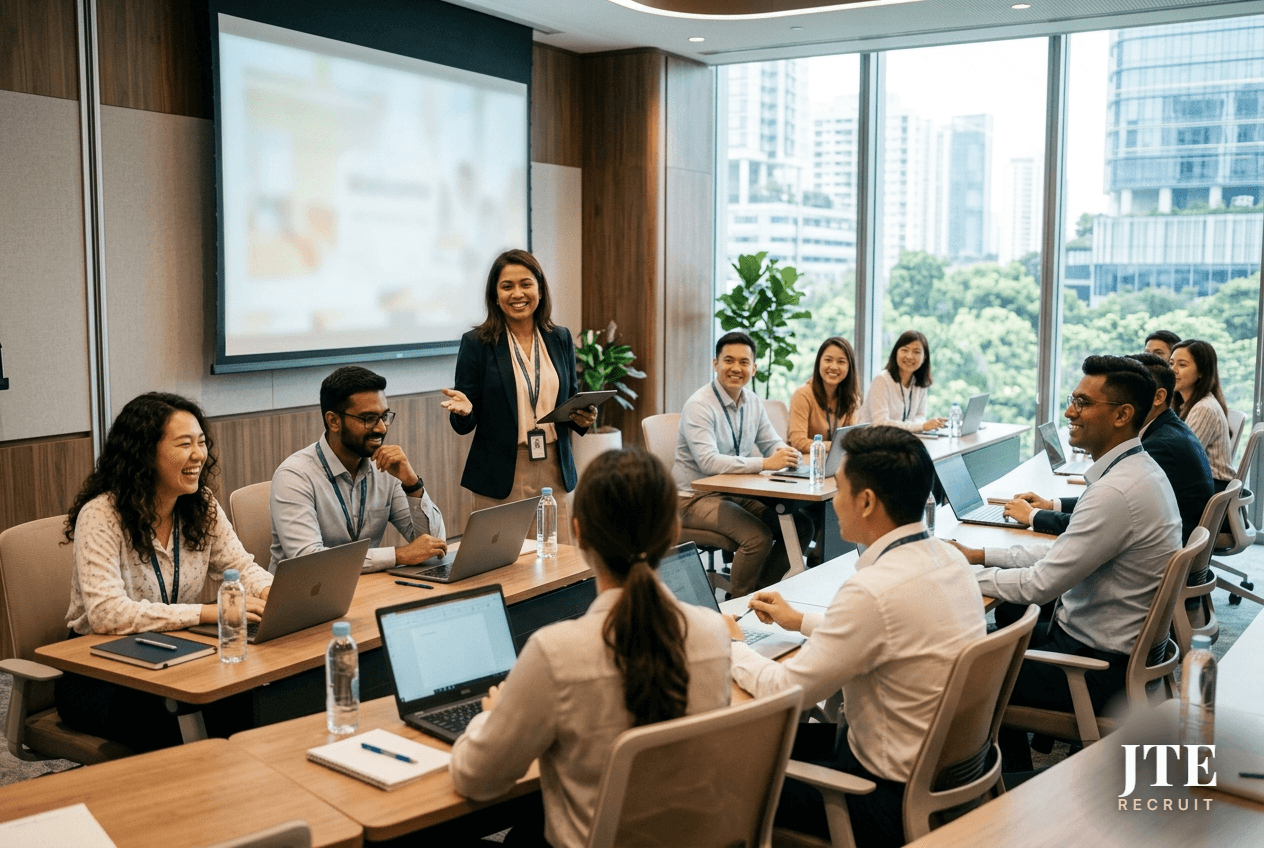
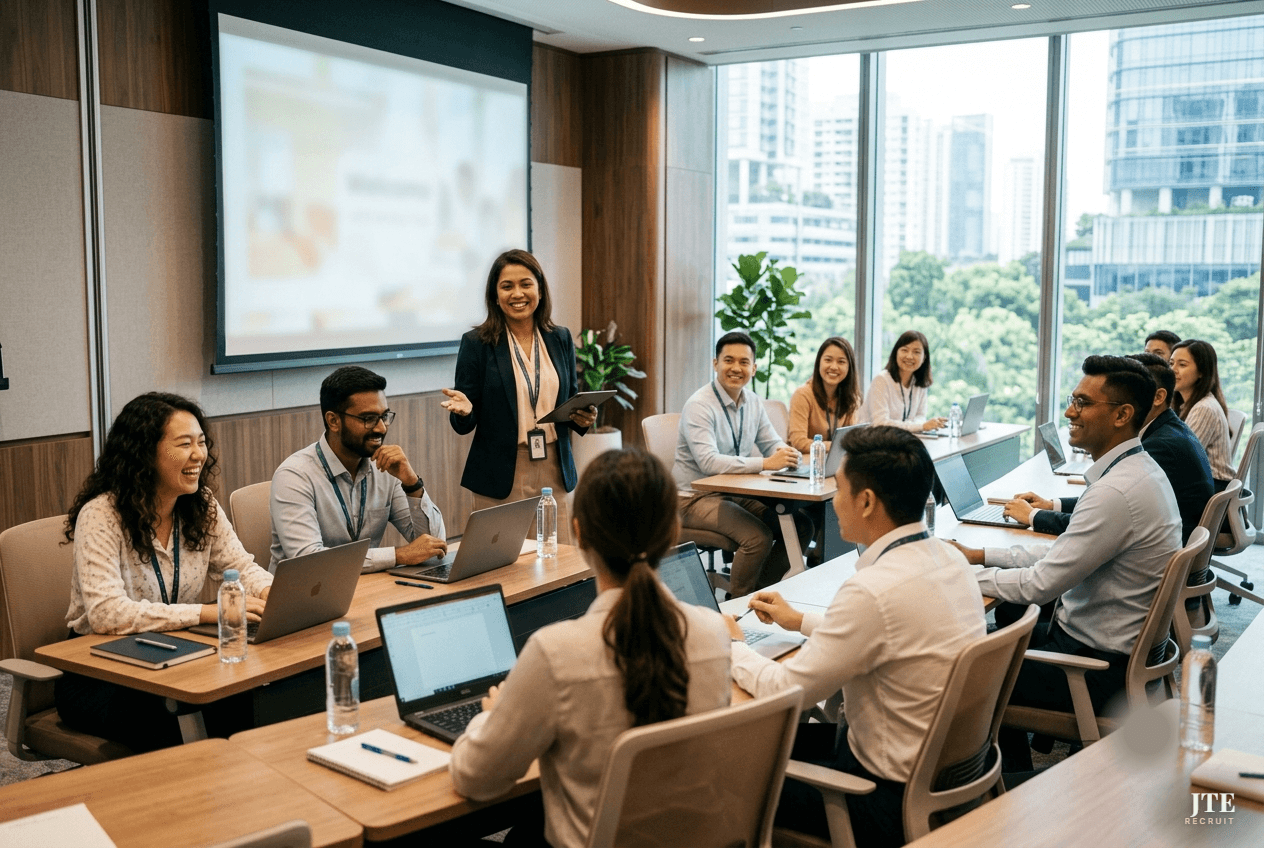
Fixes: site-wide "For Employers" nav, smaller watermark, homepage hero
- "For Employers" added to the desktop nav on all 27 pages (was only
  on the homepage, so it vanished elsewhere); variant-aware colour.
- Shrank the JTE watermark on all 7 employer images (hero + 6 cards)
  — the bumped version was too large.
- Homepage hero: removed its AI sparkle + added the small JTE
  watermark; served from /assets/home-hero.png (was Supabase).

Claude-Session: https://claude.ai/code/session_01EKRgNvSH6V1dx8oDAvnnUX

Changed region(s): [[0.8331, 0.8278, 1.0, 1.0], [0.4628, 0.3986, 0.4937, 0.4599], [0.5862, 0.3373, 0.6171, 0.3679]]

diff --git a/employers/index.html b/employers/index.html
@@ -312,6 +312,7 @@
         <!-- Right cluster: desktop links (hidden on mobile) + always-visible Verify button -->
         <div class="flex items-center gap-4 md:gap-8">
             <div class="nav-desk items-center space-x-7">
+                <a href="/employers" class="text-xs uppercase tracking-[0.15em] text-gray-300 hover:text-white transition-colors hover-gold-line">For Employers</a>
                 <a href="/services" class="text-xs uppercase tracking-[0.15em] text-gray-300 hover:text-white transition-colors hover-gold-line">What We Do</a>
                 <a href="/our-story" class="text-xs uppercase tracking-[0.15em] text-gray-300 hover:text-white transition-colors hover-gold-line">Our Story</a>
                 <a href="/blog" class="text-xs uppercase tracking-[0.15em] text-gray-300 hover:text-white transition-colors hover-gold-line">Field Notes</a>

diff --git a/index.html b/index.html
@@ -668,7 +668,7 @@
     <section class="relative h-screen min-h-[700px] flex flex-col items-center justify-center overflow-hidden">
         <div class="absolute inset-0 z-0">
             <div class="absolute inset-0 bg-gradient-to-b from-black/60 via-black/40 to-black/70 z-10"></div> 
-            <img loading="eager" src="https://cqkzlykkshlzemiiloeo.supabase.co/storage/v1/render/image/public/jte-images/hero/hero-image.png?width=1600&quality=75&resize=contain" class="hero-image w-full h-full object-cover" alt="JTE Recruit Team Singapore">
+            <img loading="eager" src="/assets/home-hero.png" class="hero-image w-full h-full object-cover" alt="JTE Recruit Team Singapore">
         </div>
         
         <div class="absolute top-1/4 left-10 w-32 h-32 border border-luxury-gold/20 rounded-full animate-float opacity-30 hidden md:block"></div>

diff --git a/blog/employment-pass-s-pass-work-permit-guide/index.html b/blog/employment-pass-s-pass-work-permit-guide/index.html
@@ -91,6 +91,7 @@
         </a>
         <div class="flex items-center gap-4 md:gap-8">
             <div class="nav-desk items-center space-x-7">
+                <a href="/employers" class="text-xs uppercase tracking-[0.15em] text-gray-600 hover:text-luxury-black transition-colors hover-gold-line">For Employers</a>
                 <a href="/services" class="text-xs uppercase tracking-[0.15em] text-gray-600 hover:text-luxury-black transition-colors hover-gold-line">What We Do</a>
                 <a href="/our-story" class="text-xs uppercase tracking-[0.15em] text-gray-600 hover:text-luxury-black transition-colors hover-gold-line">Our Story</a>
                 <a href="/blog" class="text-xs uppercase tracking-[0.15em] text-gray-600 hover:text-luxury-black transition-colors hover-gold-line nav-active">Field Notes</a>

diff --git a/blog/how-to-choose-recruitment-agency-singapore/index.html b/blog/how-to-choose-recruitment-agency-singapore/index.html
@@ -91,6 +91,7 @@
         </a>
         <div class="flex items-center gap-4 md:gap-8">
             <div class="nav-desk items-center space-x-7">
+                <a href="/employers" class="text-xs uppercase tracking-[0.15em] text-gray-600 hover:text-luxury-black transition-colors hover-gold-line">For Employers</a>
                 <a href="/services" class="text-xs uppercase tracking-[0.15em] text-gray-600 hover:text-luxury-black transition-colors hover-gold-line">What We Do</a>
                 <a href="/our-story" class="text-xs uppercase tracking-[0.15em] text-gray-600 hover:text-luxury-black transition-colors hover-gold-line">Our Story</a>
                 <a href="/blog" class="text-xs uppercase tracking-[0.15em] text-gray-600 hover:text-luxury-black transition-colors hover-gold-line nav-active">Field Notes</a>

diff --git a/blog/permanent-vs-contract-staffing/index.html b/blog/permanent-vs-contract-staffing/index.html
@@ -91,6 +91,7 @@
         </a>
         <div class="flex items-center gap-4 md:gap-8">
             <div class="nav-desk items-center space-x-7">
+                <a href="/employers" class="text-xs uppercase tracking-[0.15em] text-gray-600 hover:text-luxury-black transition-colors hover-gold-line">For Employers</a>
                 <a href="/services" class="text-xs uppercase tracking-[0.15em] text-gray-600 hover:text-luxury-black transition-colors hover-gold-line">What We Do</a>
                 <a href="/our-story" class="text-xs uppercase tracking-[0.15em] text-gray-600 hover:text-luxury-black transition-colors hover-gold-line">Our Story</a>
                 <a href="/blog" class="text-xs uppercase tracking-[0.15em] text-gray-600 hover:text-luxury-black transition-colors hover-gold-line nav-active">Field Notes</a>

diff --git a/blog/recruitment-agency-cost-singapore/index.html b/blog/recruitment-agency-cost-singapore/index.html
@@ -91,6 +91,7 @@
         </a>
         <div class="flex items-center gap-4 md:gap-8">
             <div class="nav-desk items-center space-x-7">
+                <a href="/employers" class="text-xs uppercase tracking-[0.15em] text-gray-600 hover:text-luxury-black transition-colors hover-gold-line">For Employers</a>
                 <a href="/services" class="text-xs uppercase tracking-[0.15em] text-gray-600 hover:text-luxury-black transition-colors hover-gold-line">What We Do</a>
                 <a href="/our-story" class="text-xs uppercase tracking-[0.15em] text-gray-600 hover:text-luxury-black transition-colors hover-gold-line">Our Story</a>
                 <a href="/blog" class="text-xs uppercase tracking-[0.15em] text-gray-600 hover:text-luxury-black transition-colors hover-gold-line nav-active">Field Notes</a>

diff --git a/blog/looking-past-the-cv/index.html b/blog/looking-past-the-cv/index.html
@@ -107,6 +107,7 @@
         </a>
         <div class="flex items-center gap-4 md:gap-8">
             <div class="nav-desk items-center space-x-7">
+                <a href="/employers" class="text-xs uppercase tracking-[0.15em] text-gray-600 hover:text-luxury-black transition-colors hover-gold-line">For Employers</a>
                 <a href="/services" class="text-xs uppercase tracking-[0.15em] text-gray-600 hover:text-luxury-black transition-colors hover-gold-line">What We Do</a>
           <a href="/our-story" class="text-xs uppercase tracking-[0.15em] text-gray-600 hover:text-luxury-black transition-colors hover-gold-line">Our Story</a>
                 <a href="/blog" class="text-xs uppercase tracking-[0.15em] text-gray-600 hover:text-luxury-black transition-colors hover-gold-line nav-active">Field Notes</a>

diff --git a/blog/spotting-recruitment-scams/index.html b/blog/spotting-recruitment-scams/index.html
@@ -117,6 +117,7 @@
         </a>
         <div class="flex items-center gap-4 md:gap-8">
             <div class="nav-desk items-center space-x-7">
+                <a href="/employers" class="text-xs uppercase tracking-[0.15em] text-gray-600 hover:text-luxury-black transition-colors hover-gold-line">For Employers</a>
                 <a href="/services" class="text-xs uppercase tracking-[0.15em] text-gray-600 hover:text-luxury-black transition-colors hover-gold-line">What We Do</a>
           <a href="/our-story" class="text-xs uppercase tracking-[0.15em] text-gray-600 hover:text-luxury-black transition-colors hover-gold-line">Our Story</a>
                 <a href="/blog" class="text-xs uppercase tracking-[0.15em] text-gray-600 hover:text-luxury-black transition-colors hover-gold-line nav-active">Field Notes</a>

diff --git a/verify/index.html b/verify/index.html
@@ -117,6 +117,7 @@
         </a>
         <div class="flex items-center gap-4 md:gap-8">
             <div class="nav-desk items-center space-x-7">
+                <a href="/employers" class="text-xs uppercase tracking-[0.15em] text-gray-600 hover:text-luxury-black transition-colors hover-gold-line">For Employers</a>
                 <a href="/services" class="text-xs uppercase tracking-[0.15em] text-gray-600 hover:text-luxury-black transition-colors hover-gold-line">What We Do</a>
           <a href="/our-story" class="text-xs uppercase tracking-[0.15em] text-gray-600 hover:text-luxury-black transition-colors hover-gold-line">Our Story</a>
                 <a href="/blog" class="text-xs uppercase tracking-[0.15em] text-gray-600 hover:text-luxury-black transition-colors hover-gold-line">Field Notes</a>

diff --git a/privacy/index.html b/privacy/index.html
@@ -78,6 +78,7 @@
         </a>
         <div class="flex items-center gap-4 md:gap-8">
             <div class="nav-desk items-center space-x-7">
+                <a href="/employers" class="text-xs uppercase tracking-[0.15em] text-gray-600 hover:text-luxury-black transition-colors hover-gold-line">For Employers</a>
                 <a href="/services" class="text-xs uppercase tracking-[0.15em] text-gray-600 hover:text-luxury-black transition-colors hover-gold-line">What We Do</a>
           <a href="/our-story" class="text-xs uppercase tracking-[0.15em] text-gray-600 hover:text-luxury-black transition-colors hover-gold-line">Our Story</a>
                 <a href="/blog" class="text-xs uppercase tracking-[0.15em] text-gray-600 hover:text-luxury-black transition-colors hover-gold-line">Field Notes</a>

diff --git a/blog/index.html b/blog/index.html
@@ -79,6 +79,7 @@
       </a>
       <div class="flex items-center gap-4 md:gap-8">
         <div class="nav-desk items-center space-x-7">
+          <a href="/employers" class="text-xs uppercase tracking-[0.15em] text-gray-600 hover:text-luxury-black transition-colors hover-gold-line">For Employers</a>
           <a href="/services" class="text-xs uppercase tracking-[0.15em] text-gray-600 hover:text-luxury-black transition-colors hover-gold-line">What We Do</a>
           <a href="/our-story" class="text-xs uppercase tracking-[0.15em] text-gray-600 hover:text-luxury-black transition-colors hover-gold-line">Our Story</a>
           <a href="/blog" class="text-xs uppercase tracking-[0.15em] text-gray-600 hover:text-luxury-black transition-colors hover-gold-line nav-active">Field Notes</a>

diff --git a/films/index.html b/films/index.html
@@ -89,6 +89,7 @@
       </a>
       <div class="flex items-center gap-4 md:gap-8">
         <div class="nav-desk items-center space-x-7">
+          <a href="/employers" class="text-xs uppercase tracking-[0.15em] text-gray-600 hover:text-luxury-black transition-colors hover-gold-line">For Employers</a>
           <a href="/services" class="text-xs uppercase tracking-[0.15em] text-gray-600 hover:text-luxury-black transition-colors hover-gold-line">What We Do</a>
           <a href="/our-story" class="text-xs uppercase tracking-[0.15em] text-gray-600 hover:text-luxury-black transition-colors hover-gold-line">Our Story</a>
           <a href="/blog" class="text-xs uppercase tracking-[0.15em] text-gray-600 hover:text-luxury-black transition-colors hover-gold-line">Field Notes</a>
